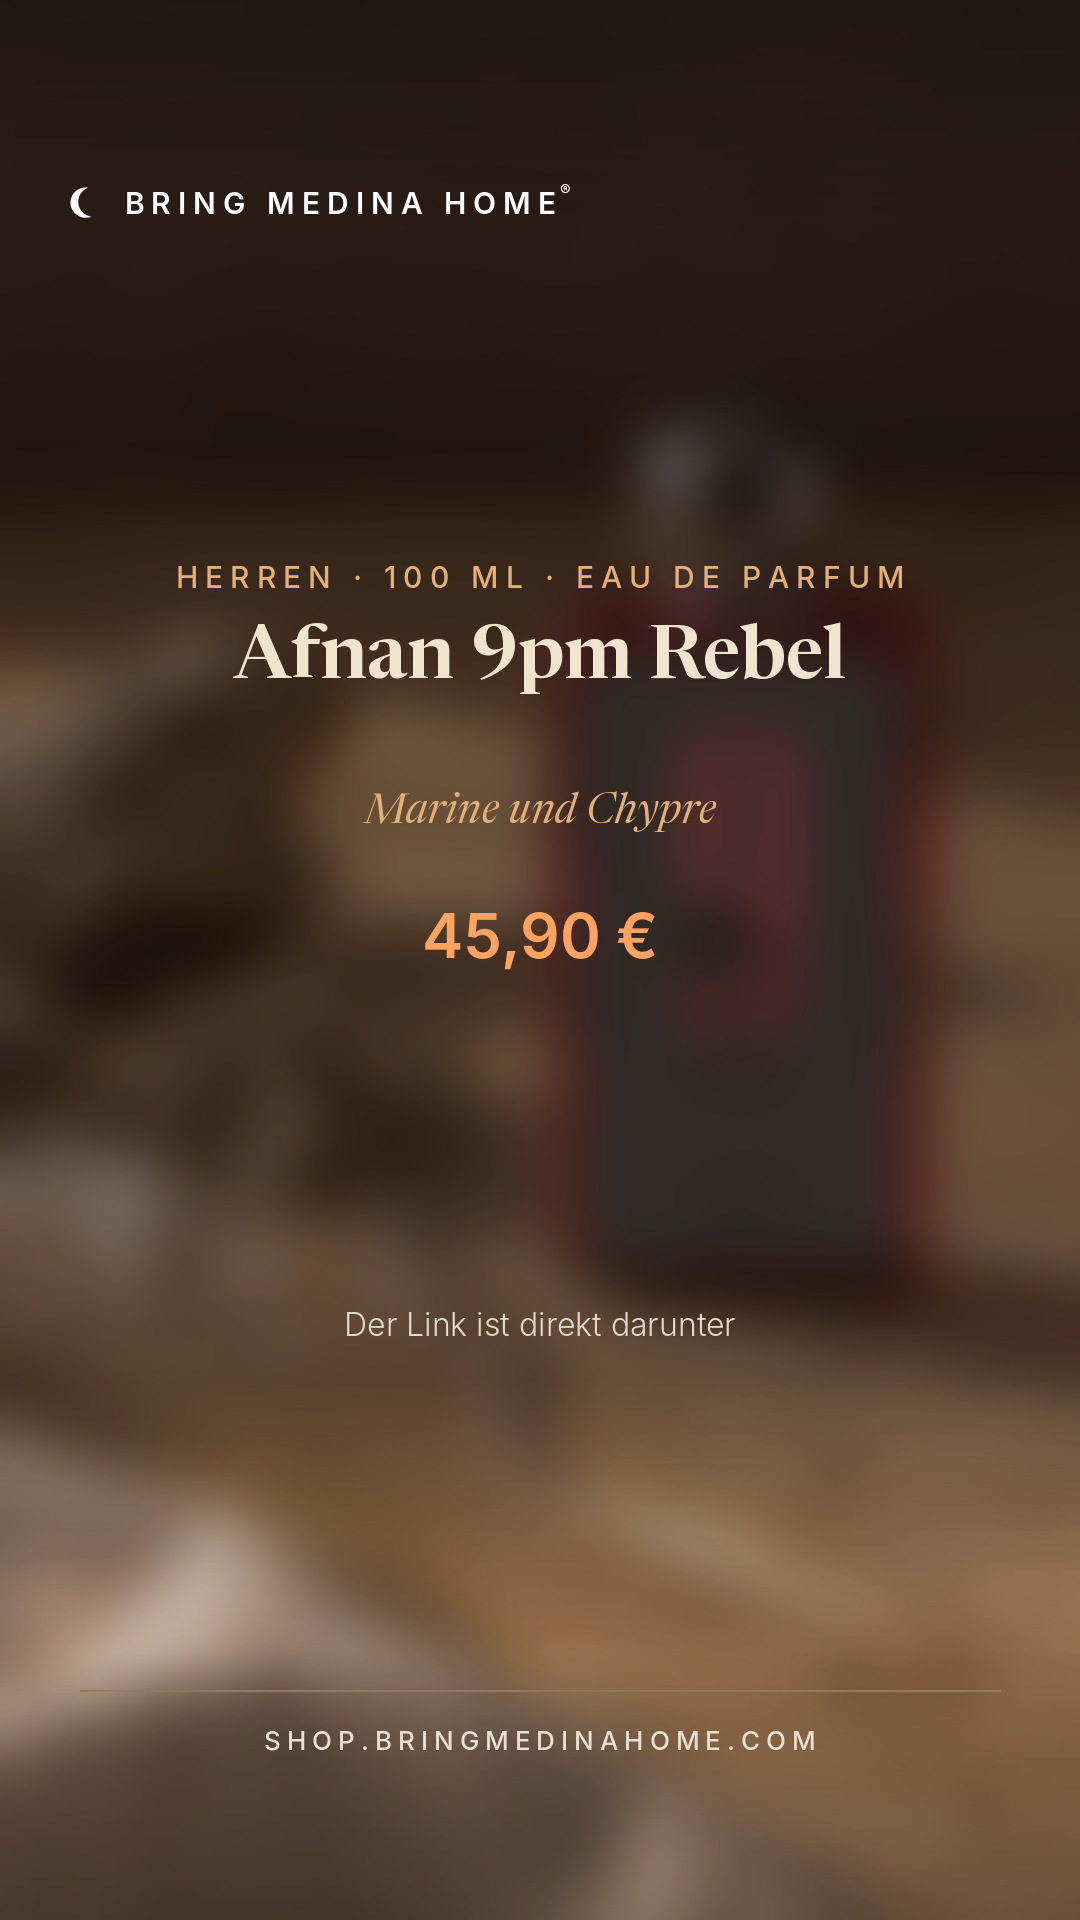
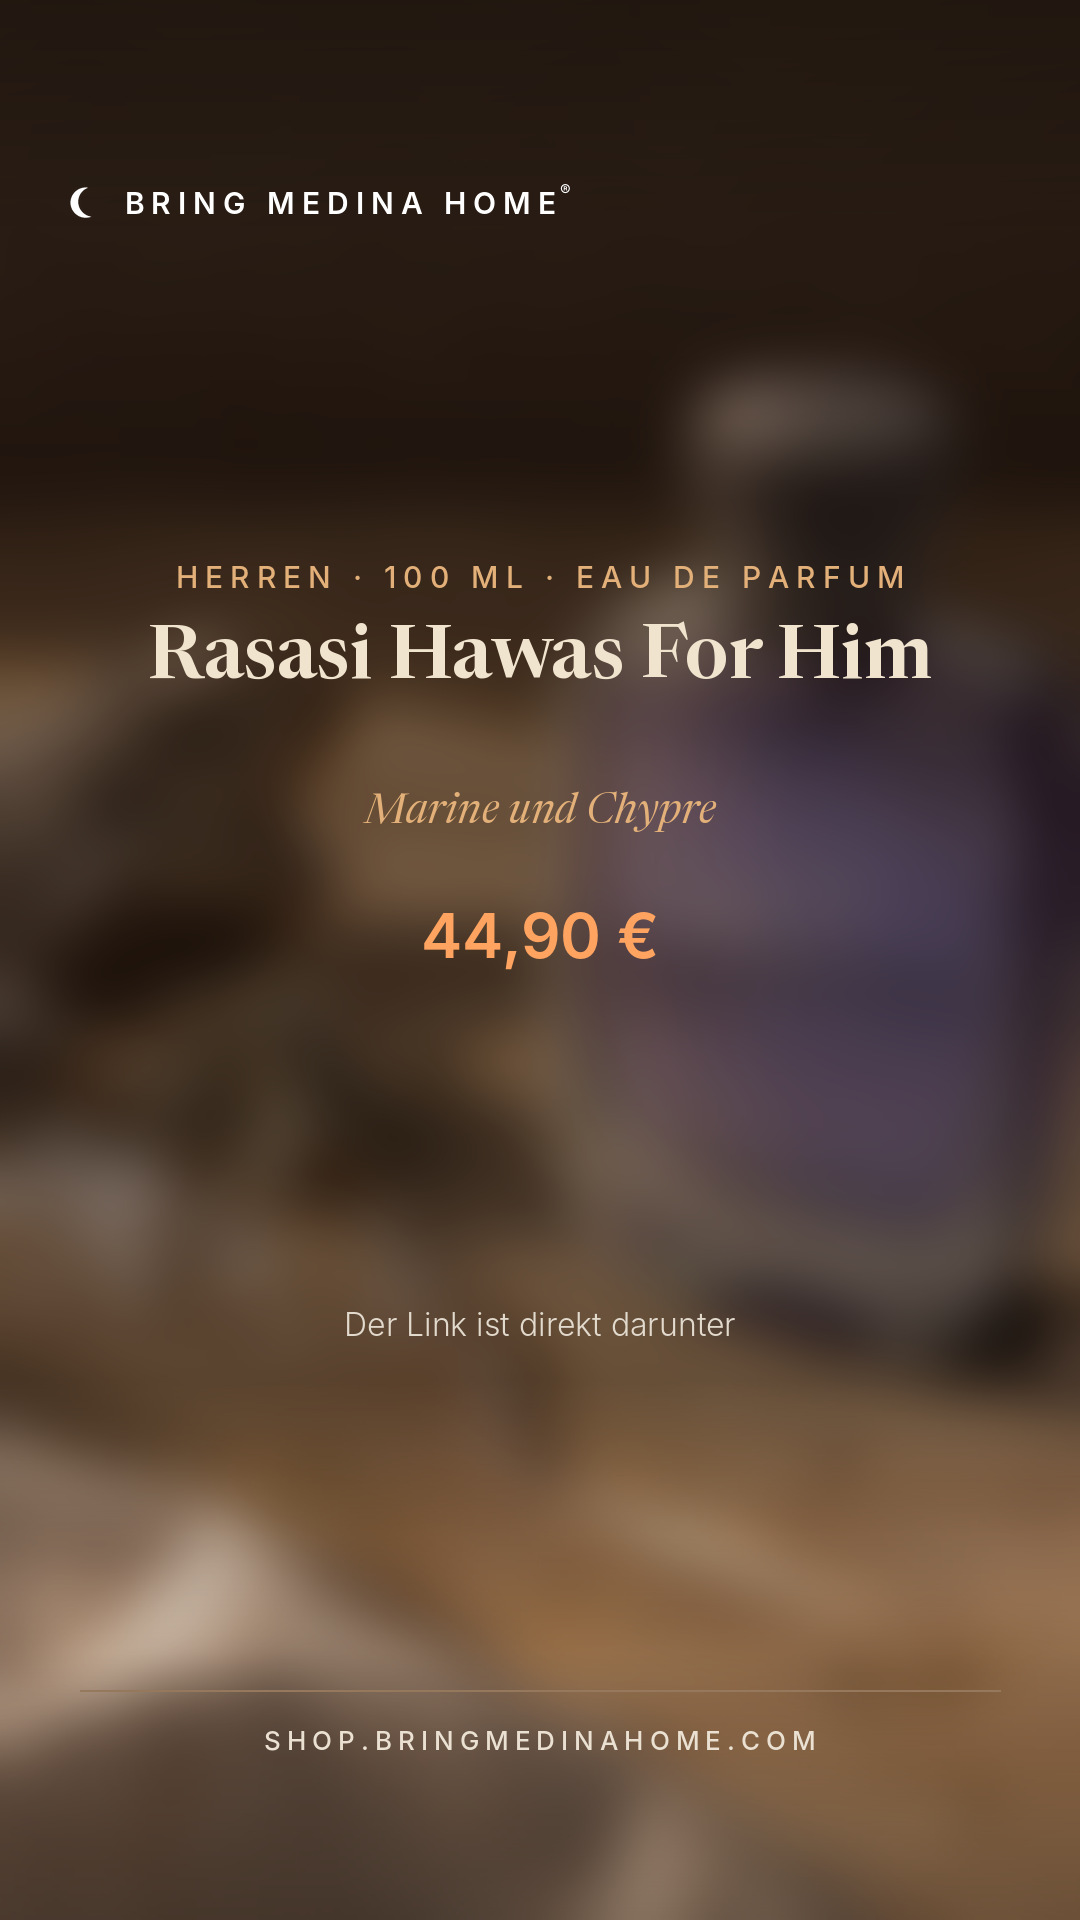
Story du 9/11 : Hawas a la place de 9pm Rebel
9pm Rebel part en dessin anime sur les quatre comptes aujourd'hui.
Claude Code l'avait ecrit dans le journal ; j'avais commence ma lecture
a l'entree precedente et saute la sienne. Le journal se relit depuis le
haut, c'est note dans post.py et dans le journal.

La story porte maintenant Rasasi Hawas For Him, 44,90 EUR, Marin et
chypre. Rasasi n'apparait nulle part ailleurs le 9/11.

Signale aussi que les creneaux 8h30, 19h45, 21h, 21h30 et 23h du 9/11
sont encore vides sur les quatre marques.

Claude-Session: https://claude.ai/code/session_01WRuYh1Ti56z8AmDfbamWmu

Changed region(s): [[0.1222, 0.1875, 1.0, 0.7188], [0.3972, 0.4688, 0.4583, 0.5]]

diff --git a/journal/README.md b/journal/README.md
@@ -23,6 +23,32 @@ n'est perdue.
 Les plus récentes **en haut**, juste sous cette ligne. Quatre champs, pas plus :
 
 ```
+## 2026-11-09 — Claude (session cloud), 03 h 10
+
+**Fait.**
+- **Correction d'une collision que j'avais créée.** La story du 9/11 portait
+  Afnan 9pm Rebel. Or Claude Code publie quatre dessins animés 9pm Rebel sur
+  les quatre comptes aujourd'hui, et il l'avait écrit dans son entrée (7).
+  Je ne l'avais pas lue : j'ai commencé ma lecture du journal à l'entrée (6),
+  en supposant que c'était la dernière. **LE JOURNAL SE RELIT DEPUIS LE HAUT.**
+- La story est maintenant **Rasasi Hawas For Him, 44,90 €**, Marin et chypré.
+  Rasasi n'apparaît nulle part ailleurs le 9/11. Les quatre fichiers sont
+  remplacés dans `stories/safran9novembre/`.
+
+**Pour l'autre.**
+- Vérifié à 03 h : sur les quatre marques, le 9/11 ne contient QUE les posts de
+  11 h et mes publications de 11 h 30, 13 h, 14 h, 16 h 30 et 17 h 30. **Les
+  créneaux 8 h 30, 19 h 45, 21 h, 21 h 30 et 23 h du 9/11 sont vides.** Tes
+  courtes des 10 et 12 novembre sont bien là, mais pas celles d'aujourd'hui.
+- Le 8/11 est sorti en entier : reel de 19 h 45 et court de 21 h 30 sur
+  Instagram, TikTok et YouTube, X à 19 h 45, 21 h et 23 h. Seul le rattrapage
+  Facebook de 18 h 30 a échoué, avec « No Facebook page connected » — attendu,
+  Facebook est abandonné.
+
+**Bloqué sur.** Rien.
+
+**Daoud doit.** Rien de plus : les nouvelles stories lui ont été envoyées.
+
 ## 2026-11-08 — Claude (session cloud), 23 h 50
 
 **Fait.**
